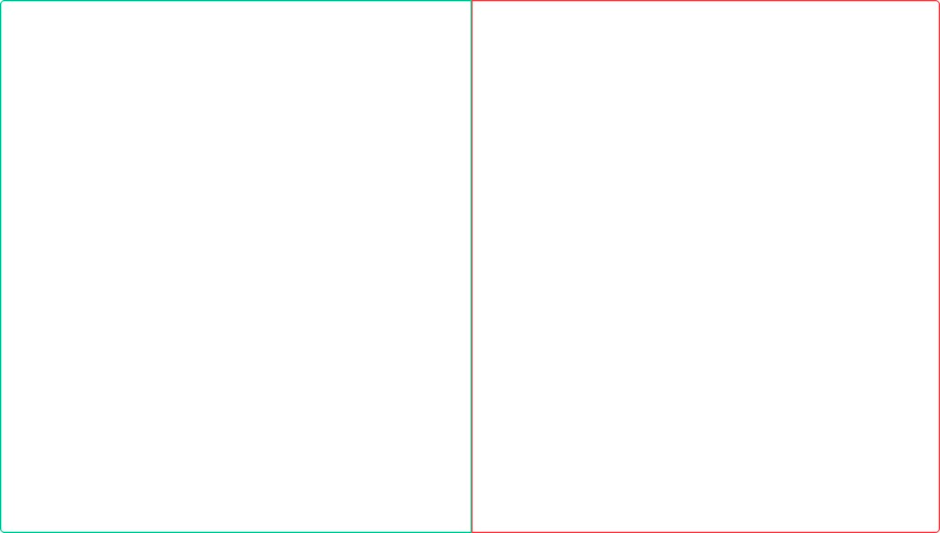
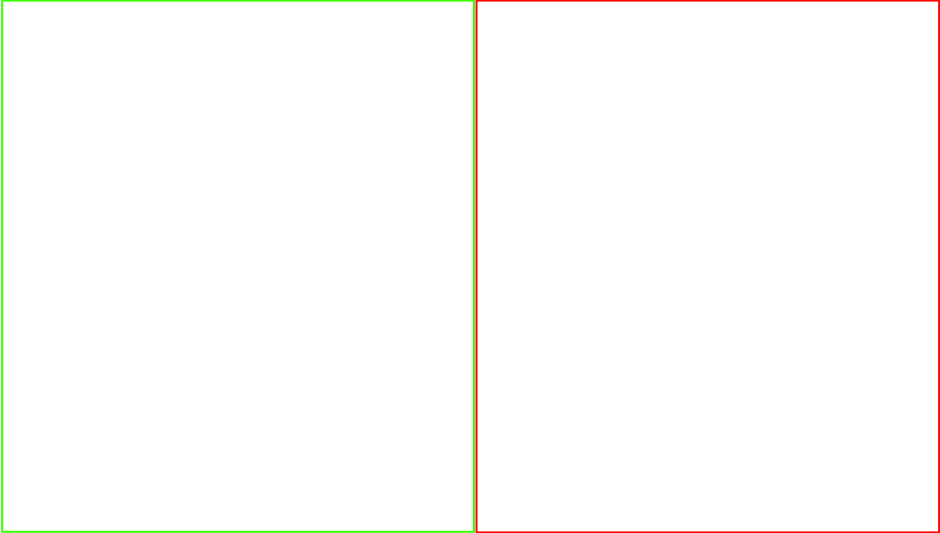
Fixed: gap between template zones

Changed region(s): [[0.0, 0.0, 1.0, 1.0]]

diff --git a/drag_and_drop_v2/zone_template.py b/drag_and_drop_v2/zone_template.py
@@ -326,8 +326,8 @@ class RectangleTemplate(ZonesDefinition):
 
         self._tpl_data = {
             'zones': [
-                self.gen_zone_settings(uid=self._LEFT_ZONE_ID, title=self._LEFT_ZONE_TITLE, description=None, x=0, y=0, width=465, height=533, align='left'),
-                self.gen_zone_settings(uid=self._RIGHT_ZONE_ID, title=self._RIGHT_ZONE_TITLE, description=None, x=470, y=0, width=465, height=533, align='left'),
+                self.gen_zone_settings(uid=self._LEFT_ZONE_ID, title=self._LEFT_ZONE_TITLE, description=None, x=0, y=0, width=470, height=533, align='left'),
+                self.gen_zone_settings(uid=self._RIGHT_ZONE_ID, title=self._RIGHT_ZONE_TITLE, description=None, x=475, y=0, width=460, height=533, align='left'),
             ],
             'items': [
                 self.gen_item_settings(id=0, display_name=self._ITEM_LEFT_ZONE_NAME, incorrect_feedback=self._ITEM_INCORRECT_FEEDBACK, correct_feedback=self._ITEM_CORRECT_FEEDBACK.format(zone=self._LEFT_ZONE_TITLE), related_zones=self._LEFT_ZONE_ID, image_url=''),
